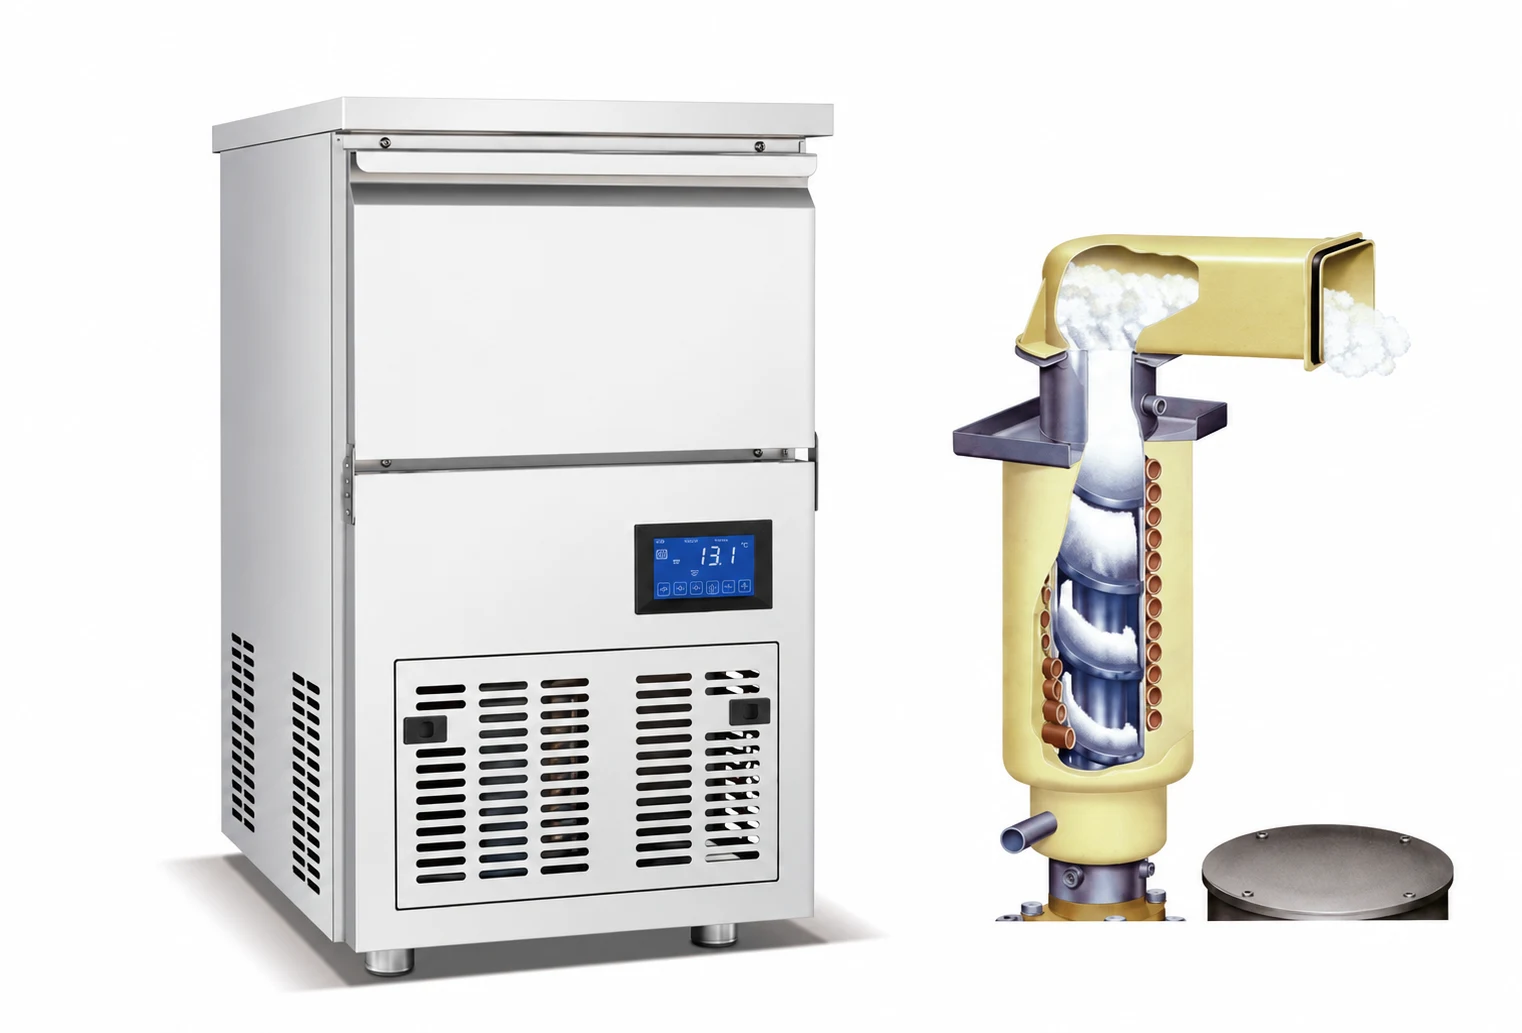
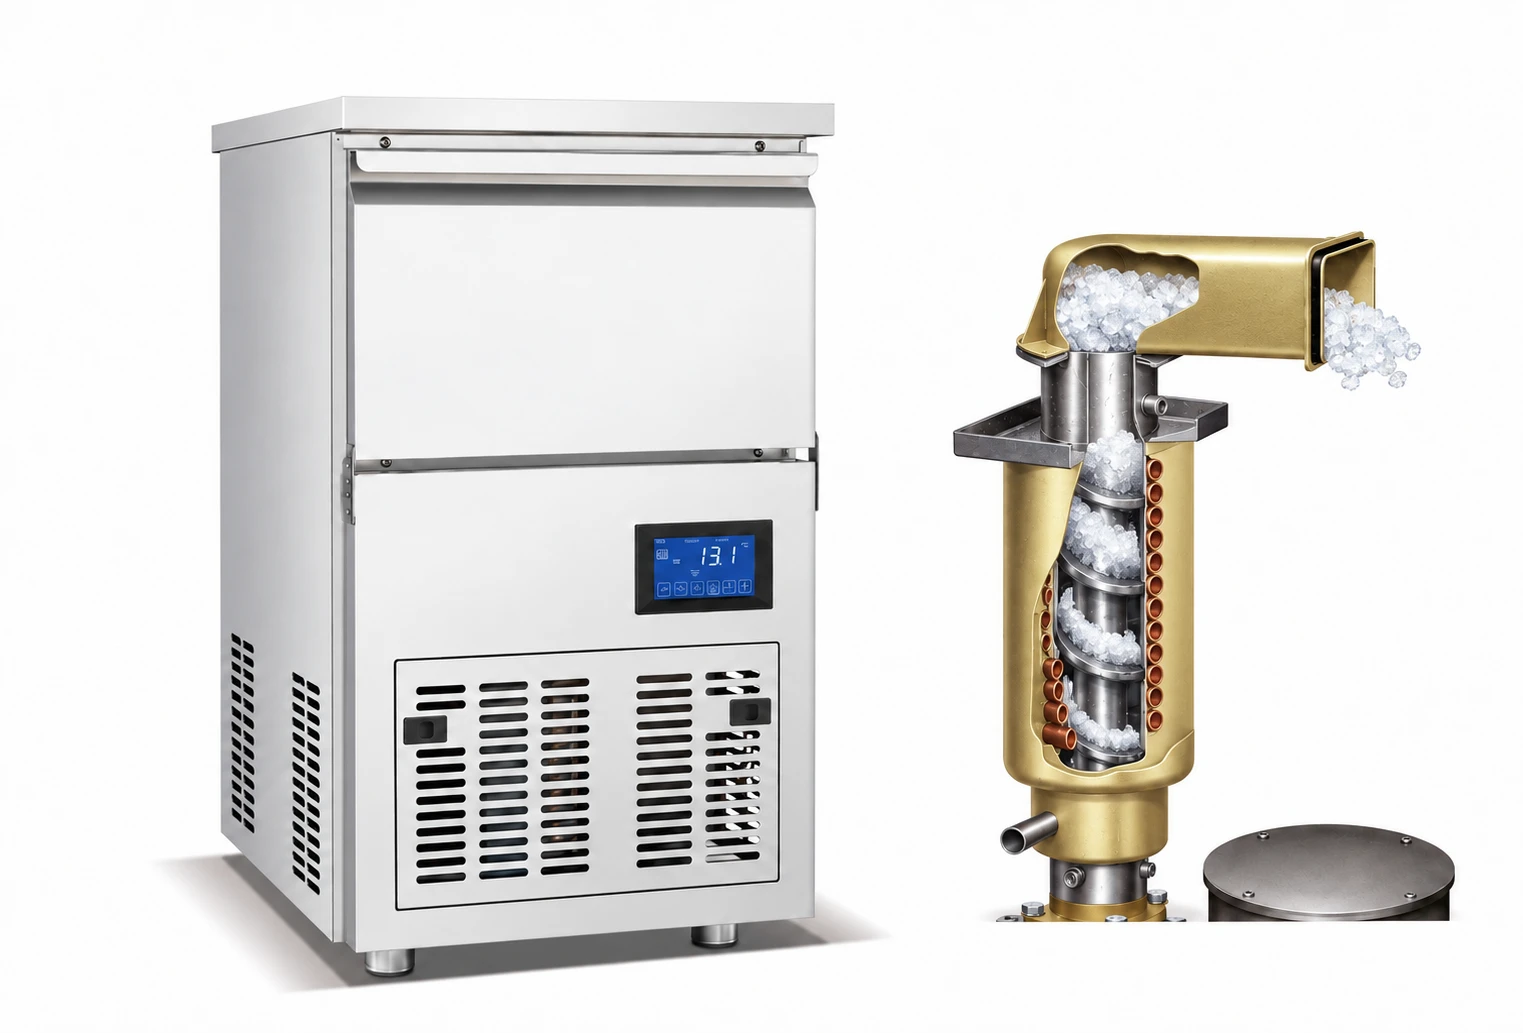
Refine ice mechanism illustration with realistic material rendering

diff --git a/docs/growth-2026-10/制冰机三冰型深化-20261026.md b/docs/growth-2026-10/制冰机三冰型深化-20261026.md
@@ -36,3 +36,7 @@
 预览目录ddnz-preview-3LHPFC/dist；4205服务根Gz8CvH/dist软链接指向最终目录，服务96933。原预览保留。证据为本目录类型/测试/构建日志、静态检查、16布局、询价记录、桌面手机截图、来源CSV/JSON。
 
 下一步：审阅本地三款，再按授权进入推送/草稿PR和发布流程。后续百利冷柜、御斯特/美灶及榨汁机按既定顺序；94历史缺参独立保留，本轮未新增其已确认数量。
+
+## 结构图材质增强（用户追加）
+
+按用户要求，把SD-120K右侧制冰机构剖面更新为更真实的金属反光、冰粒透明度与接触阴影；左侧整机、剖面关系及页面参数不变。仍标结构示意，不作为实物拆机照片或合金材质证明。原v1已保存为sd-120k-before-realistic.webp，新版sd-120k-realistic-v2.webp；生成路径与资源哈希见realistic-material-update.json。只更新这一张已引用的WebP及本记录，不改变代码、价格、型号或结构数据，未重复无关全量测试。预览静态目录同步此图片；浏览器重载后大图已确认1523×1033，弹窗正常，截图realistic-material-preview.png。未推送未发布。
